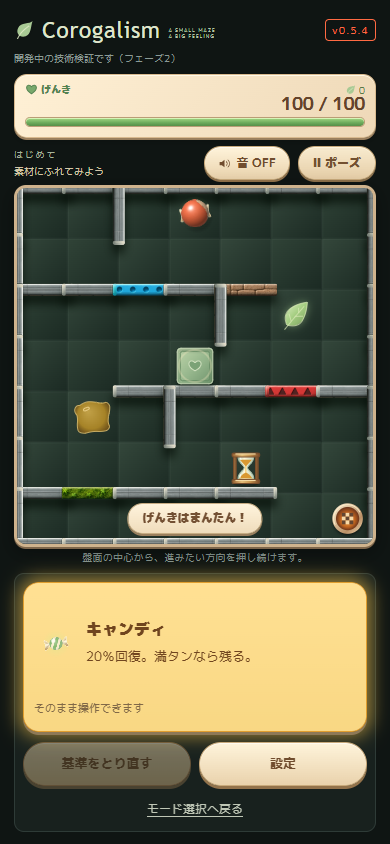
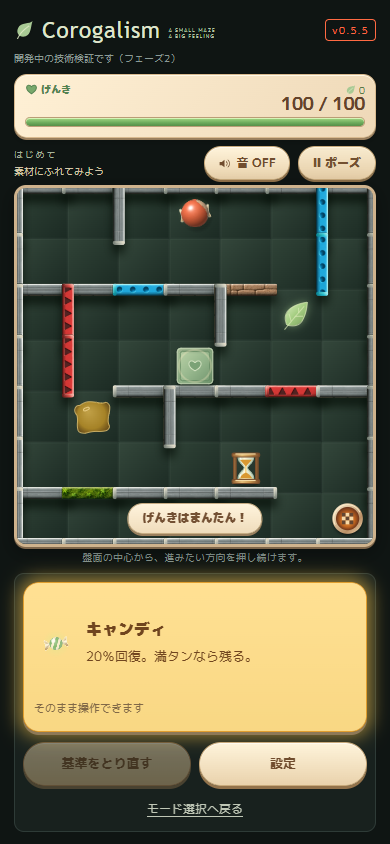
feat(T-245): place tutorial material walls after run-ups

Changed region(s): [[0.8, 0.2156, 0.8615, 0.3697], [0.1538, 0.3389, 0.2154, 0.4929], [0.9231, 0.0308, 0.9538, 0.0616]]

diff --git a/src/world/tutorialStage.js b/src/world/tutorialStage.js
@@ -8,14 +8,20 @@ export function createTutorialStage() {
  const cells=Array.from({length:size*size},(_,i)=>({t:i<size?1:0,r:i%size===size-1?1:0,b:i>=size*(size-1)?1:0,l:i%size===0?1:0}));
  for(const [y,from,to] of [[2,0,4],[4,2,6],[6,0,4]])for(let x=from;x<=to;x++){cells[y*size+x].t=1;cells[(y-1)*size+x].b=1;}
  // 短い仕切りで普通の迷路らしい曲がり角を加える。通路全体は塞がない。
- for(const [x,y] of [[2,0],[4,2],[3,4]]){cells[y*size+x].l=1;cells[y*size+x-1].r=1;}
+ for(const [x,y] of [[2,0],[4,2],[3,4],[6,0],[6,1],[1,2],[1,3]]){cells[y*size+x].l=1;cells[y*size+x-1].r=1;}
  const maze={size,seed:0,cells,start:{x:0,y:0},goal:{x:6,y:6}};
  if(!checkReachability(maze).ok)throw new Error('チュートリアルの通路が接続されていません');
  maze.path=solvePath(maze);maze.pathLength=maze.path.length;maze.turns=countTurns(maze.path);
  const stage=createStage(maze);
- // 特殊壁は1区間ずつ。標準壁を主にして体験箇所を分散する。
+ // 標準壁主体。横通路の先にも素材壁を置き、助走後の反発・被弾を体験する。
  for(const [y,x,materialId] of [[2,2,'rubber'],[2,4,'stone'],[4,5,'spike'],[6,1,'moss']]){
   const wall=stage.walls.find(w=>Math.abs(w.y-(y-stage.wallThickness/2))<.001&&Math.abs(w.x-(x-stage.wallThickness/2))<.001&&w.w>w.h);
+  wall.materialId=materialId;
+ }
+ // 上段を右へ進んだ先はゴム、中段を左へ進んだ先はトゲ。
+ // 2区間にして広い通路で少し進路がずれても当たりやすくする。
+ for(const [x,y,materialId] of [[6,0,'rubber'],[6,1,'rubber'],[1,2,'spike'],[1,3,'spike']]){
+  const wall=stage.walls.find(w=>Math.abs(w.x-(x-stage.wallThickness/2))<.001&&Math.abs(w.y-(y-stage.wallThickness/2))<.001&&w.h>w.w);
   wall.materialId=materialId;
  }
  stage.recovery={x:3.5,y:.5,collected:false};

diff --git a/test/tutorial.test.js b/test/tutorial.test.js
@@ -34,7 +34,18 @@ test('説明は0.7秒後に更新し、残し続け、各素材は初回だけ',
  t.contact('moss');t.contact('spike');t.contact('moss');t.tick(700);assert.equal(t.active,'moss');t.tick(700);assert.equal(t.active,'spike');t.tick(60000);assert.equal(t.active,'spike');
  t.reset();assert.equal(t.active,null);t.contact('rubber');t.tick(700);assert.equal(t.active,'rubber');
 });
-test('特殊壁は各1区間で、壁の大半を標準にする',()=>{
- const s=createTutorialStage();for(const id of ['rubber','stone','spike','moss'])assert.equal(s.walls.filter(w=>w.materialId===id).length,1);
+test('体験用のゴムとトゲを増やし、壁の大半を標準にする',()=>{
+ const s=createTutorialStage();for(const [id,count] of [['rubber',3],['spike',3],['stone',1],['moss',1]])assert.equal(s.walls.filter(w=>w.materialId===id).length,count);
  assert.ok(s.walls.filter(w=>w.materialId==='default').length/s.walls.length>.8);
+});
+
+test('横通路の助走でゴムの反発とトゲの被弾を体験できる',()=>{
+ for(const [x,y,direction,id] of [[2.5,1.5,1,'rubber'],[5.5,3.5,-1,'spike']]){
+  const p=createStagePlay(0,null,{tutorial:true});p.teleport(x,y);
+  let hit=null;
+  for(let i=0;i<600&&!hit;i++)p.advance({dt:1/120,elapsedMs:1000/120,tilt:{x:direction*.5,y:0},base:BASE,onImpact(speed,wall){hit={speed,id:wall.materialId};}});
+  assert.ok(hit,'静止から一定の傾きで通路の先へ到達');assert.equal(hit.id,id);assert.ok(hit.speed>1.2,'ダメージ閾値を超える助走速度');
+  if(id==='rubber'){assert.ok(p.actor.vx*direction<0);assert.equal(p.hp.value,p.hp.max);}
+  else assert.ok(p.hp.value<p.hp.max);
+ }
 });

diff --git a/index.html b/index.html
@@ -23,7 +23,7 @@
         <span class="brand-word">Corogalism</span>
       </h1>
       <p class="brand-tagline">A SMALL MAZE<br>A BIG FEELING</p>
-      <span class="badge">v0.5.4</span>
+      <span class="badge">v0.5.5</span>
       </div>
       <p class="sub" id="dev-note">開発中の技術検証です（フェーズ2）</p>
     </div>

diff --git a/precache.js b/precache.js
@@ -1,4 +1,4 @@
-self.PRECACHE_VERSION = '7c53189c215b6ffe';
+self.PRECACHE_VERSION = 'f65d03c21c26812d';
 self.PRECACHE_FILES = [
   "assets/audio/bgm.wav",
   "assets/audio/rolling-loop.wav",

diff --git a/docs/tutorial-continuous.md b/docs/tutorial-continuous.md
@@ -18,3 +18,9 @@
 ## T-244 カード全体の更新演出（v0.5.4）
 
 さらに目立たせたいという実機フィードバックに対応。更新ラベルと見出し右の予約余白を削除。カード全体の金色の面と外周の光を1.8秒で2回強弱させる。文字・迷路・カードは動かさず、操作・説明保持・接触からの待ち時間は維持。動きを減らす設定では点滅せず金色の面を1.8秒表示する。
+
+## T-245 助走先のゴム・トゲ（v0.5.5）
+
+上段の横通路を右へ進んだ先（x=6、y=0〜2）にゴム壁、中段を左へ進んだ先（x=1、y=2〜4）にトゲ壁を追加。いずれも内壁を2区間追加し、既存と合わせ各3区間。通路幅内で進路が多少ずれても体験できる配置。標準壁は8割以上を維持し、全セル到達・アイテムへの接近を保持。本編のランダム配置や素材係数は変更なし。
+
+静止から傾き0.5の実物理で上段(2.5,1.5)から右、中段(5.5,3.5)から左へ進め、最初の衝突が目的の素材かつ速度1.2超であること、ゴムは反発し無傷、トゲは被弾することを検証。

diff --git a/docs/handoff-codex.md b/docs/handoff-codex.md
@@ -1,5 +1,7 @@
 # Codexへの引き継ぎ（2026-09-12 更新）
 
+**v0.5.5（T-245）実装済み・公開確認待ち:** チュートリアル上段の直線先へゴム、中段の直線先へトゲを2区間ずつ追加。各3区間にし助走後の衝突を体験しやすくした。本編の配置・物理係数は維持。
+
 **v0.5.4（T-244）公開確認済み・8beb841:** 説明カード全体が金色に2回光る1.8秒の演出へ変更。「更新」ラベルは削除。プレイの流れ・枠寸法は維持。
 
 **v0.5.3（T-243）公開確認済み・0d9ec07:** 更新通知を金色の枠1.2秒と「更新」表示2.4秒へ強化。説明保持と無停止の流れは維持。詳細docs/tutorial-continuous.md。

diff --git a/AGENTS.md b/AGENTS.md
@@ -14,6 +14,8 @@
 
 ## 2. 現在の状態
 
+**v0.5.5（T-245）実装済み・公開確認待ち:** チュートリアル上段の直線先へゴム、中段の直線先へトゲを2区間ずつ追加。各3区間にし助走後の衝突を体験しやすくした。本編の配置・物理係数は維持。
+
 **v0.5.4（T-244）公開確認済み・8beb841:** 説明カード全体が金色に2回光る1.8秒の演出へ変更。「更新」ラベルは削除。プレイの流れ・枠寸法は維持。
 
 **v0.5.3（T-243）公開確認済み・0d9ec07:** 更新通知を金色の枠1.2秒と「更新」表示2.4秒へ強化。説明保持と無停止の流れは維持。詳細docs/tutorial-continuous.md。

diff --git a/CLAUDE.md b/CLAUDE.md
@@ -14,6 +14,8 @@
 
 ## 2. 現在の状態
 
+**v0.5.5（T-245）実装済み・公開確認待ち:** チュートリアル上段の直線先へゴム、中段の直線先へトゲを2区間ずつ追加。各3区間にし助走後の衝突を体験しやすくした。本編の配置・物理係数は維持。
+
 **v0.5.4（T-244）公開確認済み・8beb841:** 説明カード全体が金色に2回光る1.8秒の演出へ変更。「更新」ラベルは削除。プレイの流れ・枠寸法は維持。
 
 **v0.5.3（T-243）公開確認済み・0d9ec07:** 更新通知を金色の枠1.2秒と「更新」表示2.4秒へ強化。説明保持と無停止の流れは維持。詳細docs/tutorial-continuous.md。

diff --git a/GEMINI.md b/GEMINI.md
@@ -14,6 +14,8 @@
 
 ## 2. 現在の状態
 
+**v0.5.5（T-245）実装済み・公開確認待ち:** チュートリアル上段の直線先へゴム、中段の直線先へトゲを2区間ずつ追加。各3区間にし助走後の衝突を体験しやすくした。本編の配置・物理係数は維持。
+
 **v0.5.4（T-244）公開確認済み・8beb841:** 説明カード全体が金色に2回光る1.8秒の演出へ変更。「更新」ラベルは削除。プレイの流れ・枠寸法は維持。
 
 **v0.5.3（T-243）公開確認済み・0d9ec07:** 更新通知を金色の枠1.2秒と「更新」表示2.4秒へ強化。説明保持と無停止の流れは維持。詳細docs/tutorial-continuous.md。
